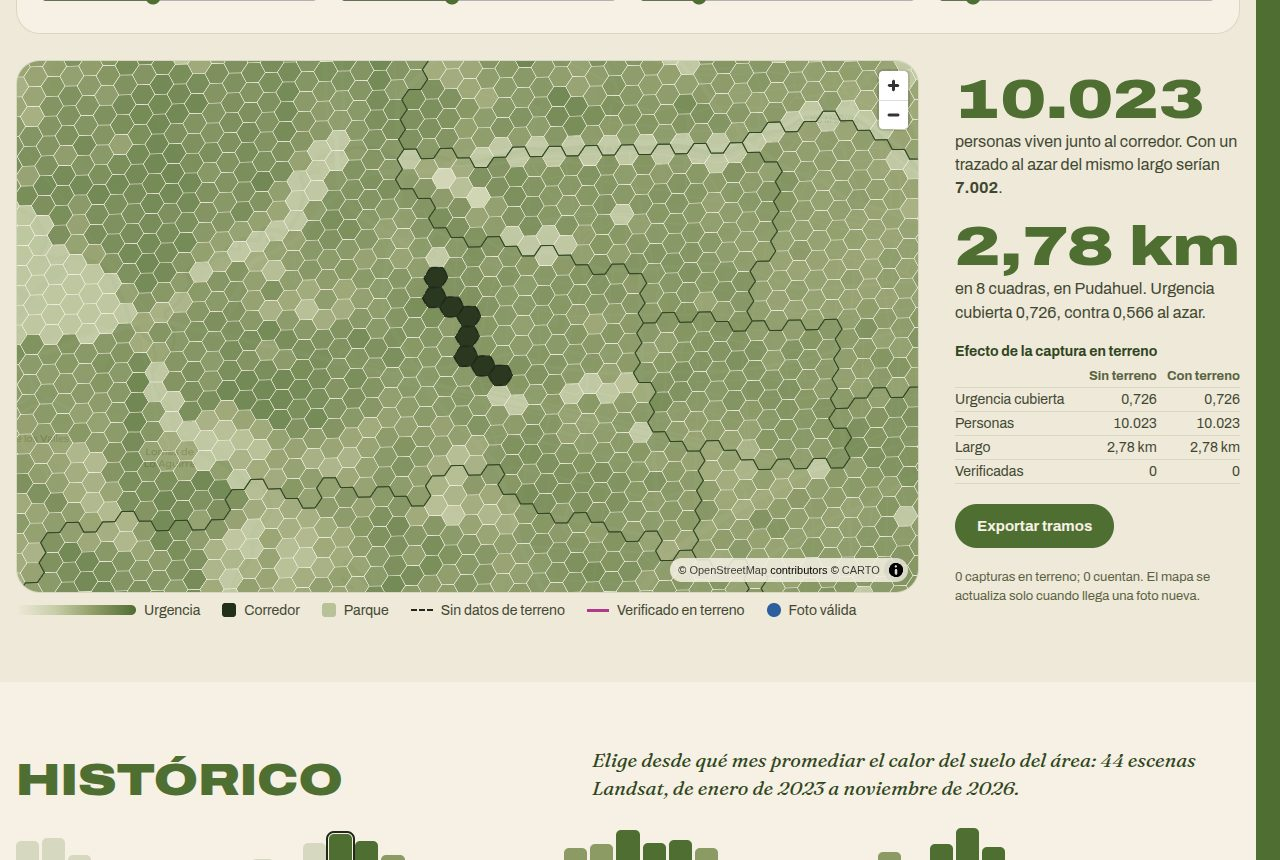
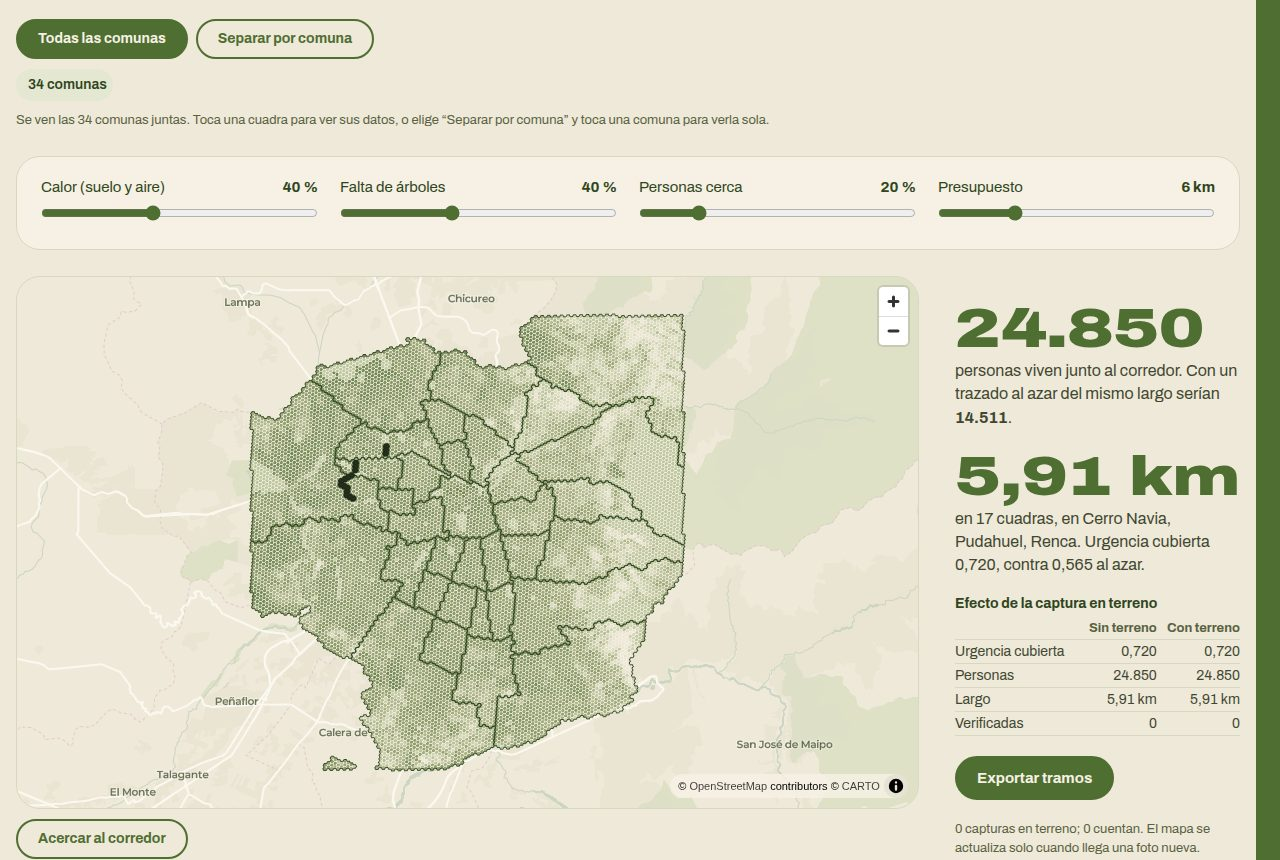
Planificar muestra el area completa: con las 34 comunas ya no se acerca solo al corredor
El mapa encuadra el area elegida y el corredor lleva un contorno grueso para verse de lejos;
el boton "Acercar al corredor" lo enfoca y vuelve.

diff --git a/web/components/Pagina.tsx b/web/components/Pagina.tsx
@@ -281,8 +281,11 @@ function Secciones({ info, estado, cambiar, ocupado, error, serie }: PropsSeccio
   const enCorredor = H.h.flatMap((_, i) => (H.ahora[i] ? [i] : []));
   const comunasCorredor = [...new Set(enCorredor.map((i) => H.comuna[i]))].sort();
   const claveCorredor = enCorredor.map((i) => H.h[i]).join();
-  const encuadrePlan = useMemo(() => (enCorredor.length ? encuadreDe(enCorredor.map((i) => anillos[i]), 0.025) : encuadreArea),
-    [claveCorredor, encuadreArea]); // eslint-disable-line react-hooks/exhaustive-deps
+  // Por defecto se ve el área completa (las 34 comunas si están todas); el corredor se acerca a pedido.
+  const [cerca, setCerca] = useState(false);
+  useEffect(() => setCerca(false), [encuadreArea]);
+  const encuadrePlan = useMemo(() => (cerca && enCorredor.length ? encuadreDe(enCorredor.map((i) => anillos[i]), 0.025) : encuadreArea),
+    [cerca, claveCorredor, encuadreArea]); // eslint-disable-line react-hooks/exhaustive-deps
 
   function exportar() {
     const fc = { type: "FeatureCollection", features: corredor.features.filter((f) => f.properties?.tipo === "ahora") };
@@ -400,6 +403,11 @@ function Secciones({ info, estado, cambiar, ocupado, error, serie }: PropsSeccio
           <div className="izq escalon" style={est(3)}>
             <MapaHex {...mapaComun} datos={datosPlan} capas={CAPAS_PLAN} activa="urg" corredor={corredor} encuadre={encuadrePlan}
               etiqueta="Corredor propuesto sobre la urgencia de cada cuadra" />
+            {enCorredor.length > 0 && (
+              <button type="button" className="pill zoom-corredor" aria-pressed={cerca} onClick={() => setCerca(!cerca)}>
+                {cerca ? (todas ? "Ver las 34 comunas" : "Ver toda el área") : "Acercar al corredor"}
+              </button>
+            )}
             <div className="leyenda">
               <span><i className="barra" style={{ background: grad(VERDE) }} />Urgencia</span>
               <span><i className="cuadro" style={{ background: "#22301A" }} />Corredor</span>

diff --git a/web/components/MapaHex.tsx b/web/components/MapaHex.tsx
@@ -118,6 +118,11 @@ export default function MapaHex({ datos, capas, activa, corredor, comunas, captu
           id: "corredor", type: "fill", source: "corredor", filter: ["==", ["get", "tipo"], "ahora"],
           paint: { "fill-color": "#22301A", "fill-opacity": 0.92, "fill-opacity-transition": { duration: menosMovimiento() ? 0 : 700 } },
         });
+        // Contorno grueso para que el corredor se distinga aun con el área completa a la vista.
+        nuevo.addLayer({
+          id: "corredor-borde", type: "line", source: "corredor", filter: ["==", ["get", "tipo"], "ahora"],
+          paint: { "line-color": "#22301A", "line-width": ["interpolate", ["linear"], ["zoom"], 9, 3, 13, 1] },
+        });
         nuevo.addLayer({
           id: "corredor-antes", type: "line", source: "corredor", filter: ["==", ["get", "tipo"], "antes"],
           paint: { "line-color": "#22281A", "line-width": 1.6, "line-dasharray": [2, 2] },

diff --git a/web/app/globals.css b/web/app/globals.css
@@ -149,3 +149,4 @@ section[id], footer[id] { scroll-margin-top: 16px; }
 .terreno th:first-child { text-align: left; font-weight: 400; }
 .terreno thead th { font-size: 13px; color: var(--texto3); }
 .mapa .maplibregl-popup-content { border-radius: 14px; background: var(--papel); }
+.zoom-corredor { align-self: flex-start; min-height: 40px; font-size: 14px; }
